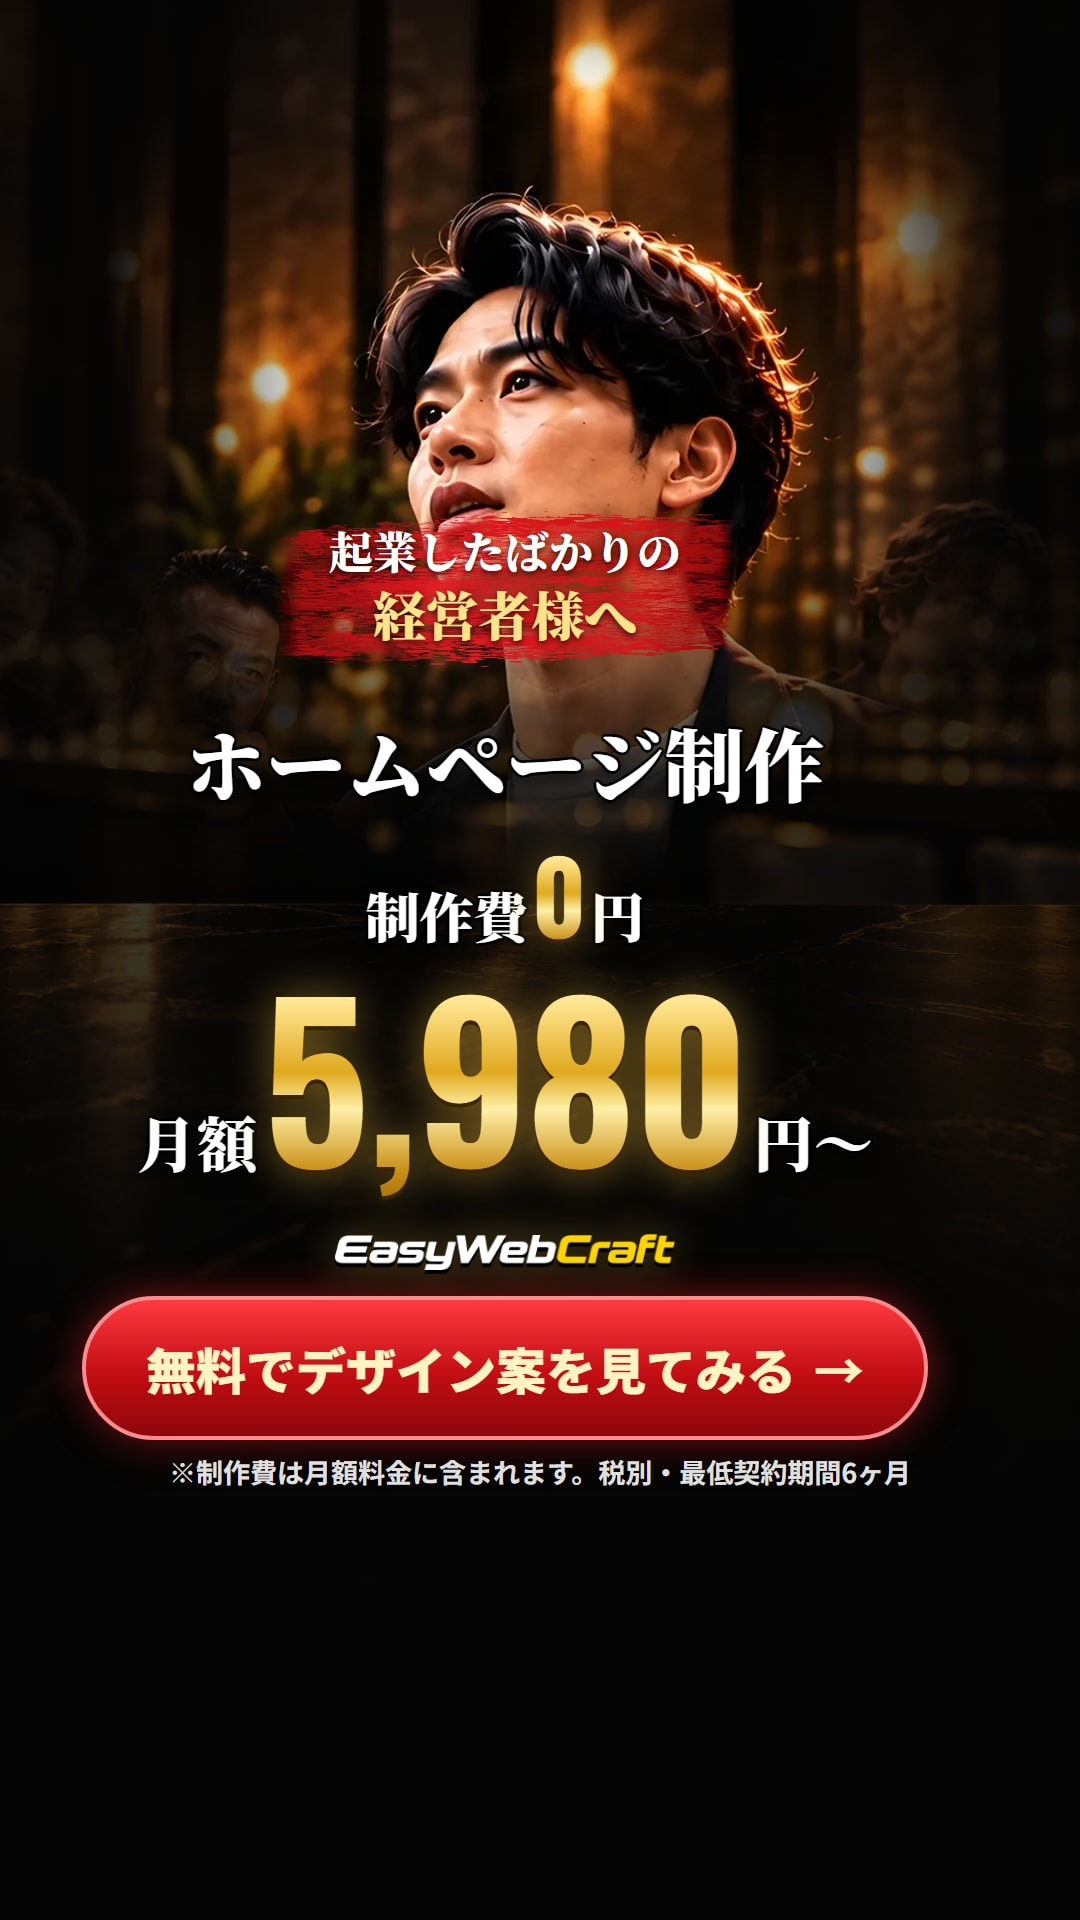
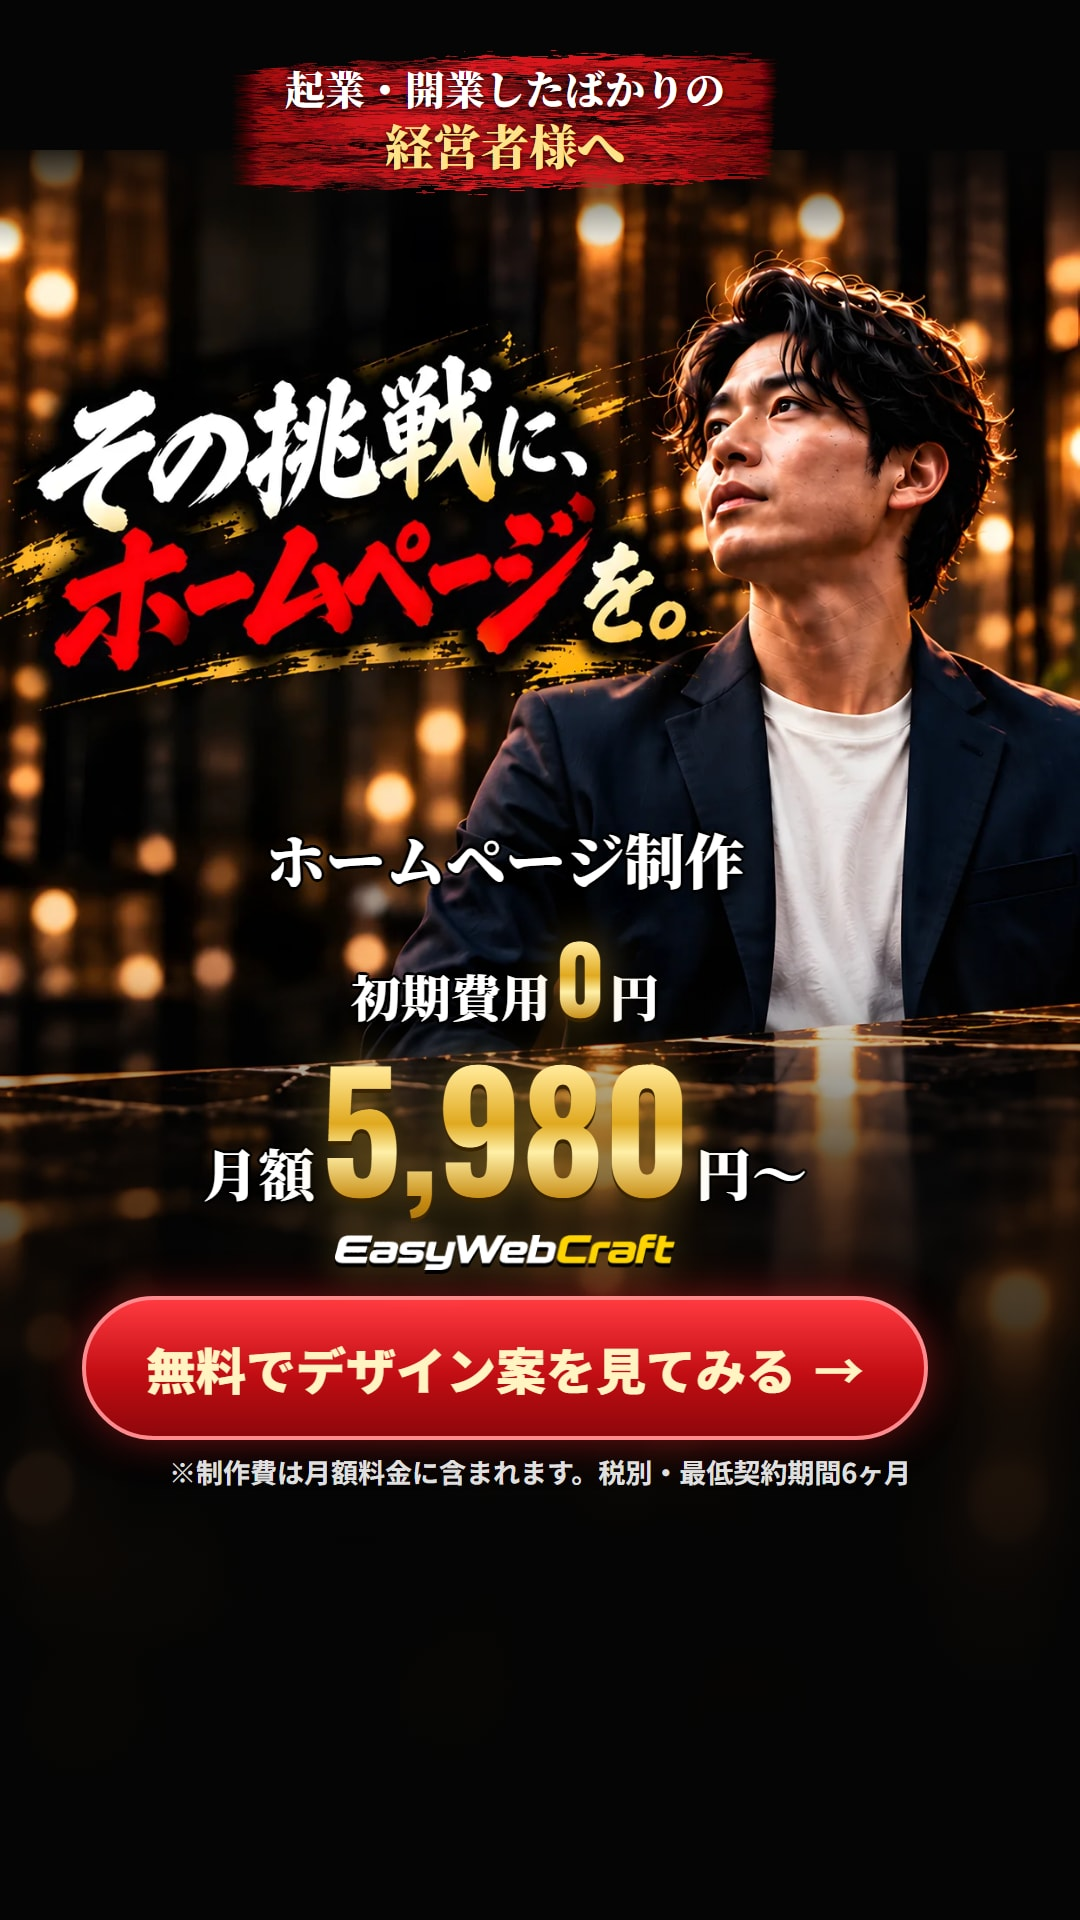
C1を今のLPのFV（筆文字＋男性の生成画像）に合わせる
Claude-Session: https://claude.ai/code/session_01G65TiHfa1BUco43NvNDLJF

diff --git a/challenge/index.html b/challenge/index.html
@@ -43,7 +43,7 @@ code{background:var(--bg); padding:0 5px; border-radius:4px; font-size:.88em; wo
   </header>
 
   <div class="grid">
-    <div class="card"><img src="jpg/c1.jpg?v=8" alt="起業したばかりの経営者様へ ホームページ制作 月額5,980円〜"><div class="no"><b>C1</b>起業直後×価格</div><span class="tgt">起業したばかり</span><span class="star">顔出し</span><p class="cap">起業したばかりの経営者様へ。ホームページ制作が制作費0円・月額5,980円〜（税別）。</p></div>
+    <div class="card"><img src="jpg/c1.jpg?v=9" alt="起業したばかりの経営者様へ ホームページ制作 月額5,980円〜"><div class="no"><b>C1</b>起業直後×価格</div><span class="tgt">起業したばかり</span><span class="star">顔出し</span><p class="cap">起業したばかりの経営者様へ。ホームページ制作が制作費0円・月額5,980円〜（税別）。</p></div>
     <div class="card"><img src="jpg/c2.jpg?v=6" alt="こんなに安くて本当にちゃんとしたHPができるの？"><div class="no"><b>C2</b>安すぎて不安？</div><span class="tgt">価格に不安がある人</span><span class="star">主力候補</span><p class="cap">起業したばかりの方へ。こんなに安くて本当にちゃんとしたHPができるの？契約前に実物を見せます。HPデザイン案0円。</p></div>
     <div class="card"><img src="jpg/c2b.jpg?v=8" alt="月額5,980円〜 安すぎて、ちょっと不安？"><div class="no"><b>C2-B</b>価格を先に見せる版</div><span class="tgt">価格に不安がある人</span><span class="star">C2とA/Bテスト</span><p class="cap">起業したばかりの方へ。制作費0円・月額5,980円〜。安すぎて、ちょっと不安？だから契約前に実物を見せます。HPデザイン案0円。</p></div>
     <div class="card"><img src="jpg/c3.jpg?v=6" alt="起業した。でも、どこに頼めばいい？"><div class="no"><b>C3</b>どこに頼めばいい？</div><span class="tgt">依頼先で迷っている人</span><span class="star">新規</span><p class="cap">起業した。ホームページも必要。でも、どこに頼めばいい？制作会社？フリーランス？自分で？デザインを見てから決めてください。</p></div>

diff --git a/challenge/ads.html b/challenge/ads.html
@@ -132,20 +132,22 @@ body{width:1080px; font-family:"Noto Sans JP",sans-serif; color:#fff; background
 #c5 .in{top:760px}
 #c4 .blogo{margin-top:0}
 #c2b .offer .h{font-size:52px} #c2b .offer .p b{font-size:140px} #c2b .offer{padding:14px 40px} #c2b .blogo{margin-top:16px}
+.ad.fvimg::before{background:url('img/ch-sp.webp') center 150px/1080px auto no-repeat,#050505; opacity:1}
+.ad.fvimg::after{background:linear-gradient(180deg,#050505 0%,#050505 7%,rgba(5,5,5,0) 13%,rgba(5,5,5,0) 50%,rgba(5,5,5,.6) 60%,rgba(5,5,5,.85) 75%,#050505 100%)}
+#c1 .in{top:40px}
 </style>
 </head>
 <body>
 
 <!-- C1 対象×価格（LPのFVと同じ訴求） -->
-<section class="ad face" id="c1">
-  <div class="photo up"></div>
+<section class="ad fvimg" id="c1">
   <div class="in">
-    <p class="label">起業したばかりの<br><b>経営者様へ</b></p>
-    <div class="g30"></div>
-    <p class="serif outline" style="font-size:80px">ホームページ制作</p>
-    <p class="zero outline" style="font-size:54px">制作費<span class="n gold" style="font-size:100px">0</span>円</p>
-    <p class="price outline" style="font-size:60px">月額<span class="n gold" style="font-size:210px">5,980</span>円〜</p>
-    <div class="sp"></div>
+    <p class="label" style="font-size:40px">起業・開業したばかりの<br><b>経営者様へ</b></p>
+    <div style="height:900px"></div>
+    <p class="serif outline" style="font-size:60px">ホームページ制作</p>
+    <p class="zero outline" style="font-size:50px; margin-top:6px">初期費用<span class="n gold" style="font-size:92px">0</span>円</p>
+    <p class="price outline" style="font-size:56px">月額<span class="n gold" style="font-size:160px">5,980</span>円〜</p>
+    <div class="sp" style="min-height:30px"></div>
     <img class="logo blogo" src="img/logo-fv.webp" alt="EasyWebCraft">
     <p class="cta">無料でデザイン案を見てみる</p>
   </div>
